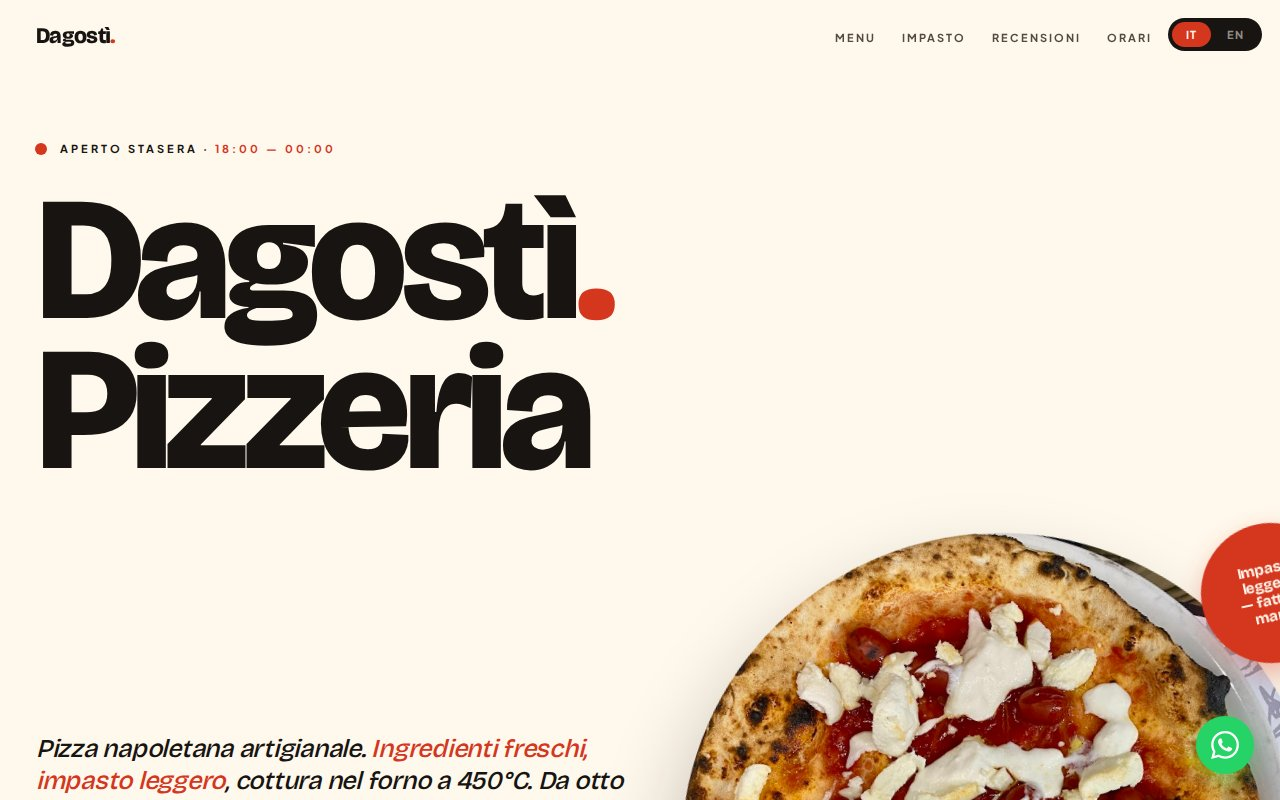
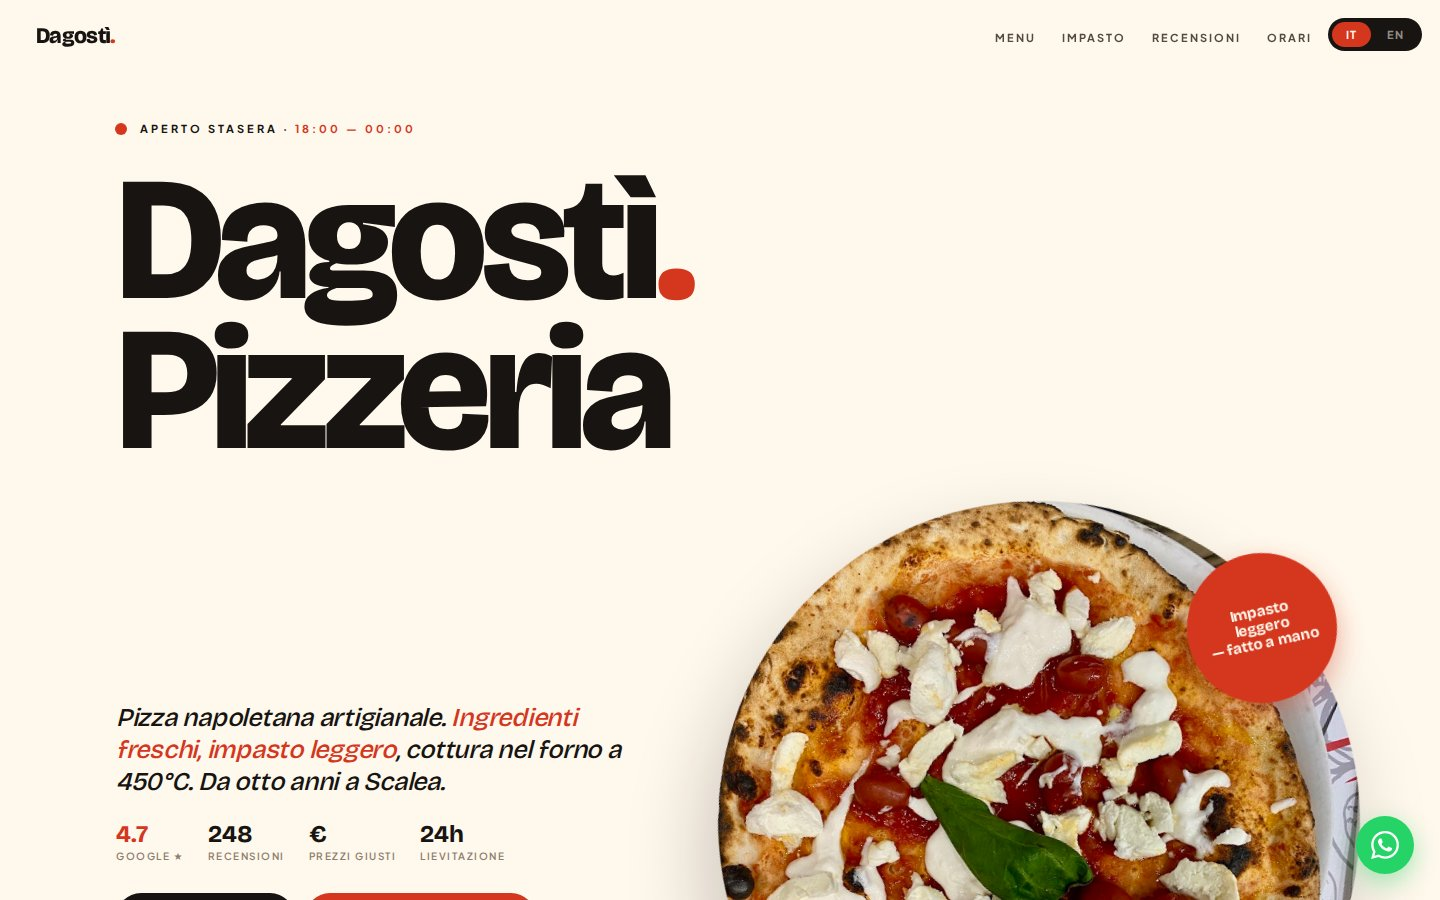
dagosti: bigger pizza centered in right column, hero 100vh

diff --git a/dagosti/index.html b/dagosti/index.html
@@ -65,8 +65,8 @@ nav.scrolled{background:rgba(255,248,236,.97);backdrop-filter:blur(12px);padding
 .stagger-child:nth-child(8){transition-delay:.63s}
 
 /* HERO — typographic */
-.hero{position:relative;padding:140px 0 60px;overflow:hidden;background:var(--cream)}
-.hero-wrap{max-width:1280px;margin:0 auto;padding:0 clamp(20px,5vw,36px);position:relative}
+.hero{position:relative;min-height:100vh;padding:120px 0 50px;overflow:hidden;background:var(--cream);display:flex;align-items:center}
+.hero-wrap{width:100%;max-width:1280px;margin:0 auto;padding:0 clamp(20px,5vw,36px);position:relative}
 .hero-label{display:flex;align-items:center;gap:14px;margin-bottom:28px;animation:fade-up .8s .1s cubic-bezier(.16,1,.3,1) backwards}
 .hero-label-dot{width:10px;height:10px;border-radius:50%;background:var(--red);animation:blink 1.6s ease-in-out infinite}
 @keyframes blink{0%,100%{opacity:.4;transform:scale(1)}50%{opacity:1;transform:scale(1.2)}}
@@ -77,12 +77,12 @@ nav.scrolled{background:rgba(255,248,236,.97);backdrop-filter:blur(12px);padding
 .hero h1{font-family:'Bricolage Grotesque',sans-serif;font-size:clamp(4rem,14vw,11rem);font-weight:800;color:var(--ink);line-height:.85;letter-spacing:-.045em;font-variation-settings:"opsz" 96;margin-bottom:0}
 .hero h1 .dot{color:var(--red)}
 .hero h1 .outline{-webkit-text-stroke:2px var(--ink);color:transparent;font-style:italic}
-.hero-row{display:flex;flex-direction:row;justify-content:space-between;align-items:center;gap:48px;margin-top:48px;flex-wrap:nowrap}
-.hero-body{flex:1 1 50%;min-width:0;animation:fade-up 1s .5s cubic-bezier(.16,1,.3,1) backwards;order:1}
-.hero-photo{position:relative;flex:0 0 auto;width:clamp(360px,55vw,640px);margin-right:clamp(-80px,-6vw,-40px);animation:fade-up 1.2s .7s cubic-bezier(.16,1,.3,1) backwards;order:2}
-.hero-photo img{width:100%;aspect-ratio:1;object-fit:cover;border-radius:50%;box-shadow:0 40px 80px rgba(23,20,17,.22);animation:spin-slow 80s linear infinite}
+.hero-row{display:flex;flex-direction:row;justify-content:space-between;align-items:center;gap:40px;margin-top:36px;flex-wrap:nowrap}
+.hero-body{flex:1 1 45%;min-width:0;animation:fade-up 1s .5s cubic-bezier(.16,1,.3,1) backwards;order:1}
+.hero-photo{position:relative;flex:1 1 55%;display:flex;align-items:center;justify-content:center;align-self:center;animation:fade-up 1.2s .7s cubic-bezier(.16,1,.3,1) backwards;order:2}
+.hero-photo img{width:100%;max-width:760px;min-width:500px;aspect-ratio:1;object-fit:cover;border-radius:50%;box-shadow:0 40px 80px rgba(23,20,17,.22);animation:spin-slow 80s linear infinite;margin-right:clamp(-100px,-5vw,0px)}
 @keyframes spin-slow{from{transform:rotate(0)}to{transform:rotate(360deg)}}
-.hero-photo-sticker{position:absolute;top:-10px;right:-20px;background:var(--red);color:var(--cream);padding:16px 18px;border-radius:50%;font-family:'Bricolage Grotesque',sans-serif;font-weight:700;font-size:.95rem;letter-spacing:-.01em;text-align:center;line-height:1.05;transform:rotate(-12deg);width:140px;height:140px;display:flex;align-items:center;justify-content:center;box-shadow:0 10px 24px rgba(212,54,30,.35);z-index:2}
+.hero-photo-sticker{position:absolute;top:8%;right:-2%;background:var(--red);color:var(--cream);padding:16px 18px;border-radius:50%;font-family:'Bricolage Grotesque',sans-serif;font-weight:700;font-size:.95rem;letter-spacing:-.01em;text-align:center;line-height:1.05;transform:rotate(-12deg);width:150px;height:150px;display:flex;align-items:center;justify-content:center;box-shadow:0 10px 24px rgba(212,54,30,.35);z-index:3}
 @media(max-width:900px){
   .hero-row{flex-direction:column;gap:32px;margin-top:32px;flex-wrap:wrap}
   .hero-body{flex:1 1 100%;width:100%;order:1;margin-right:0}
